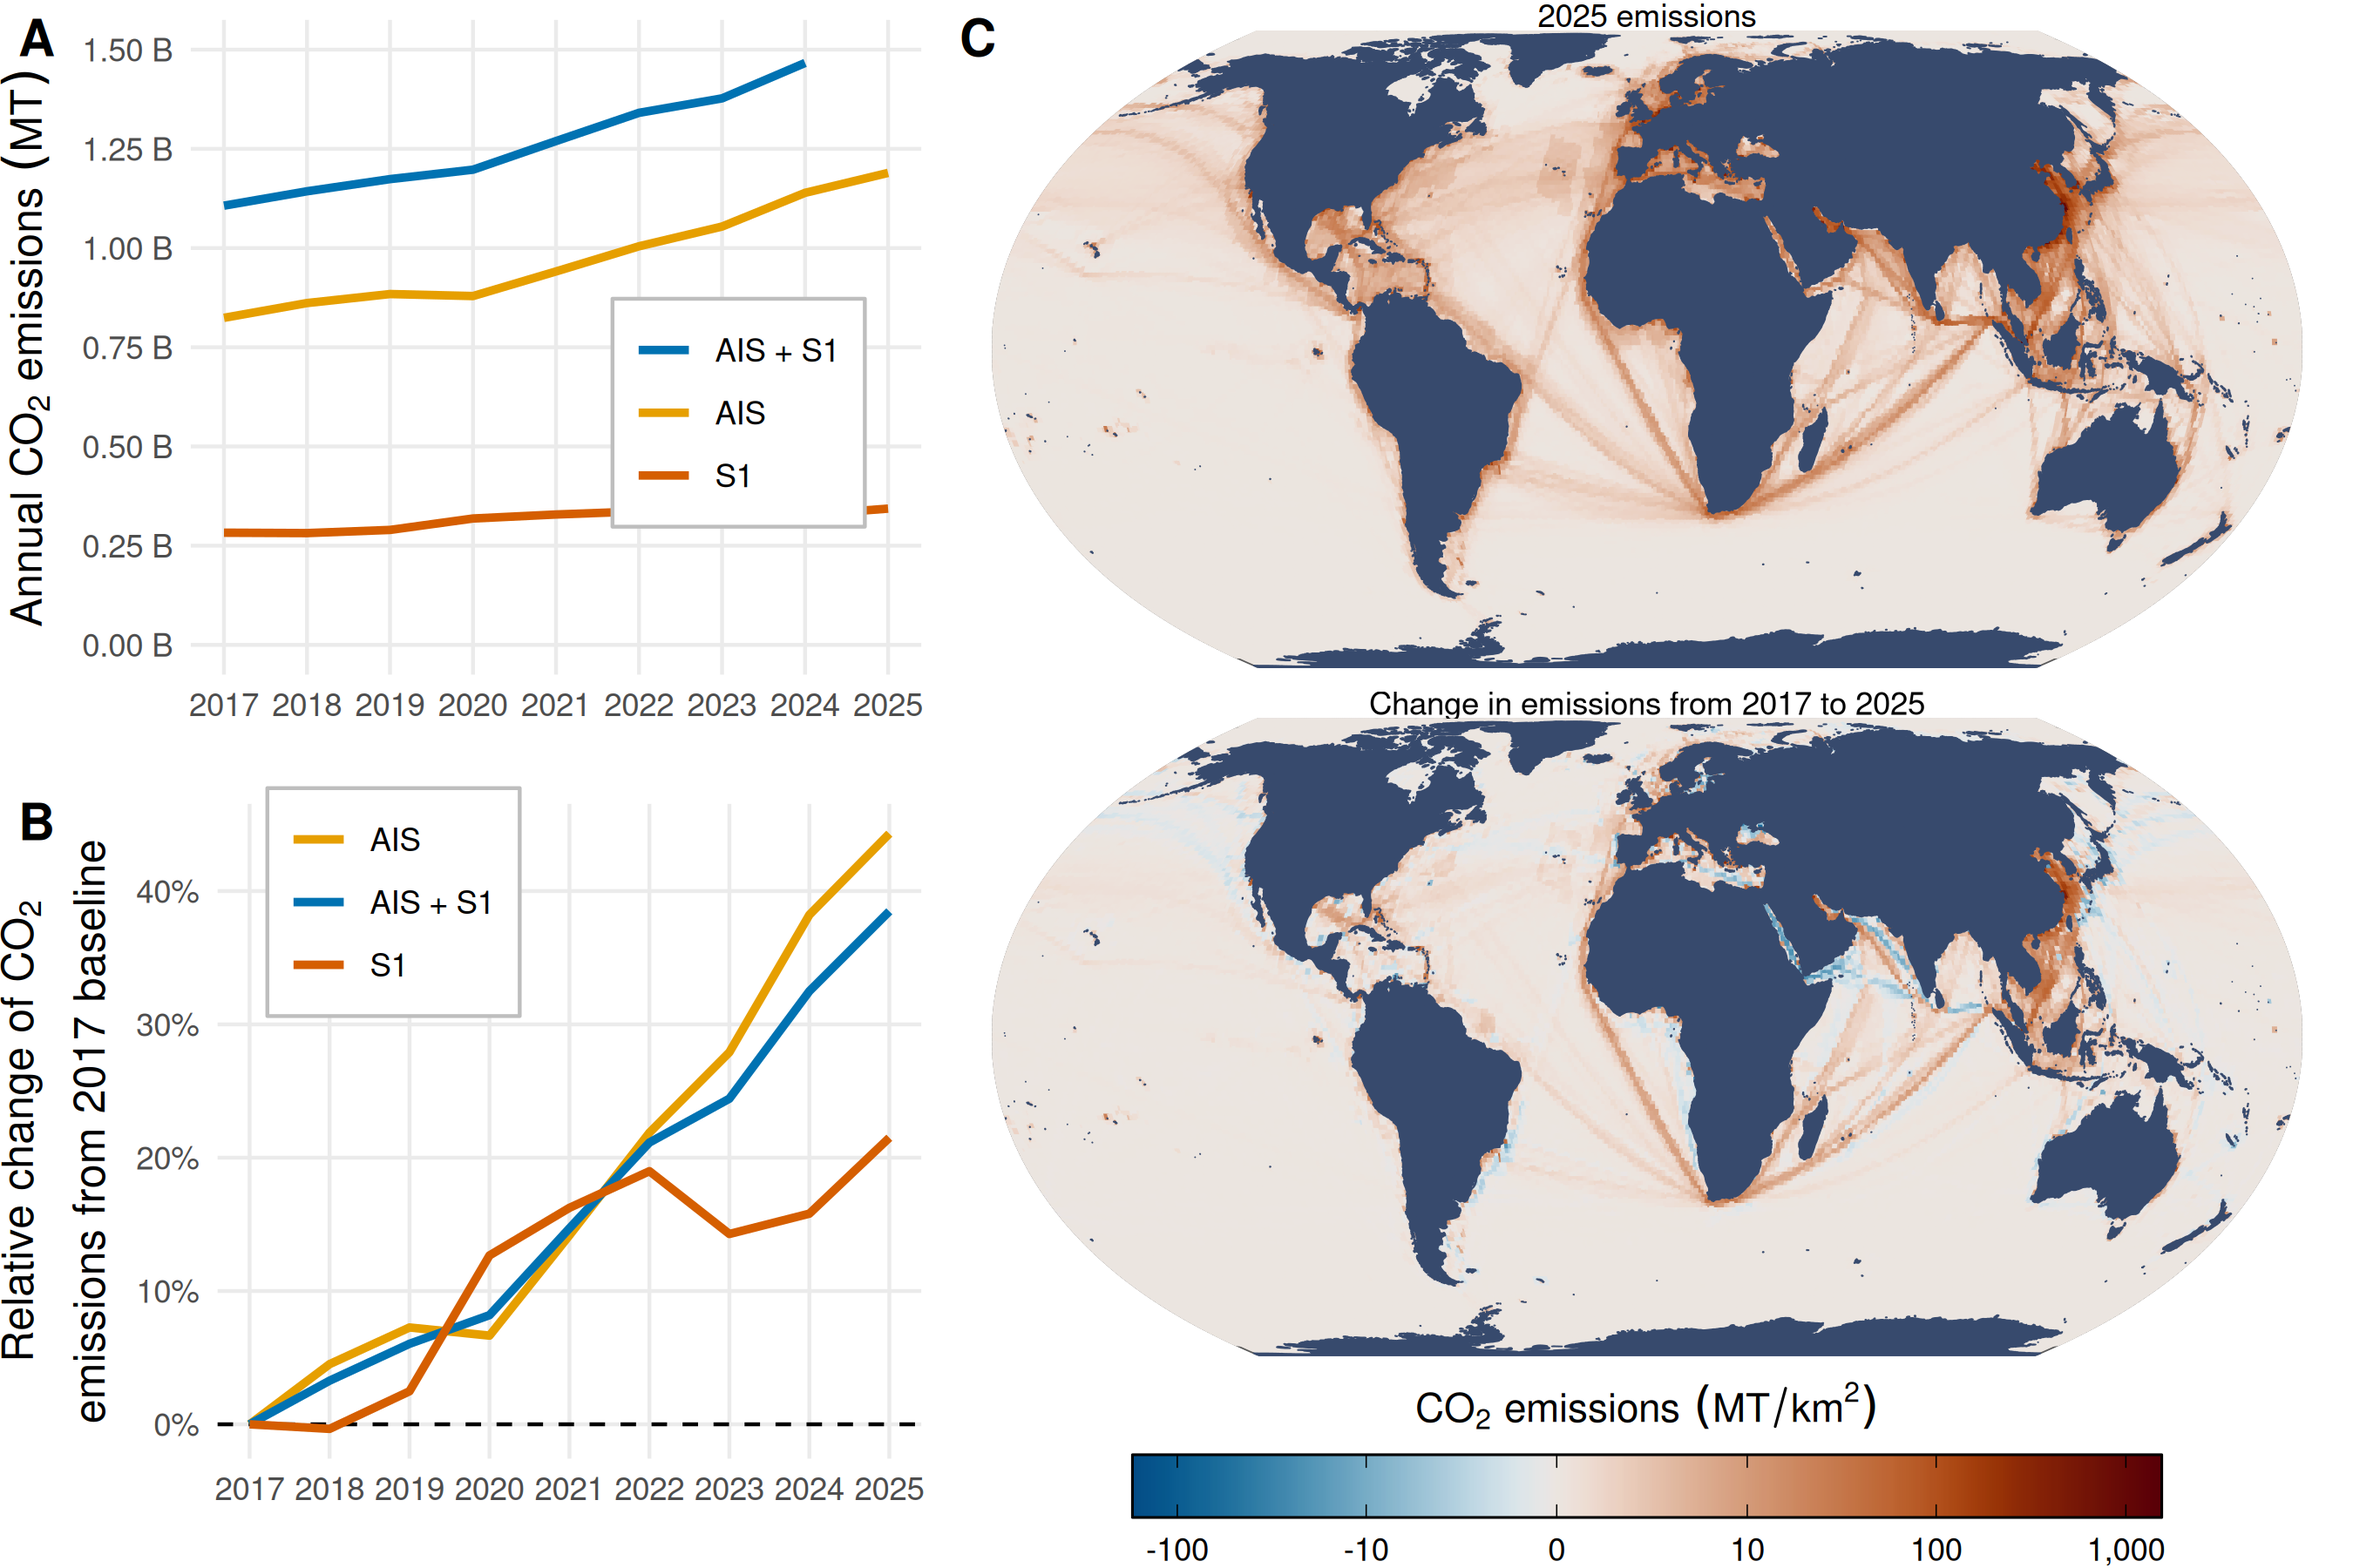
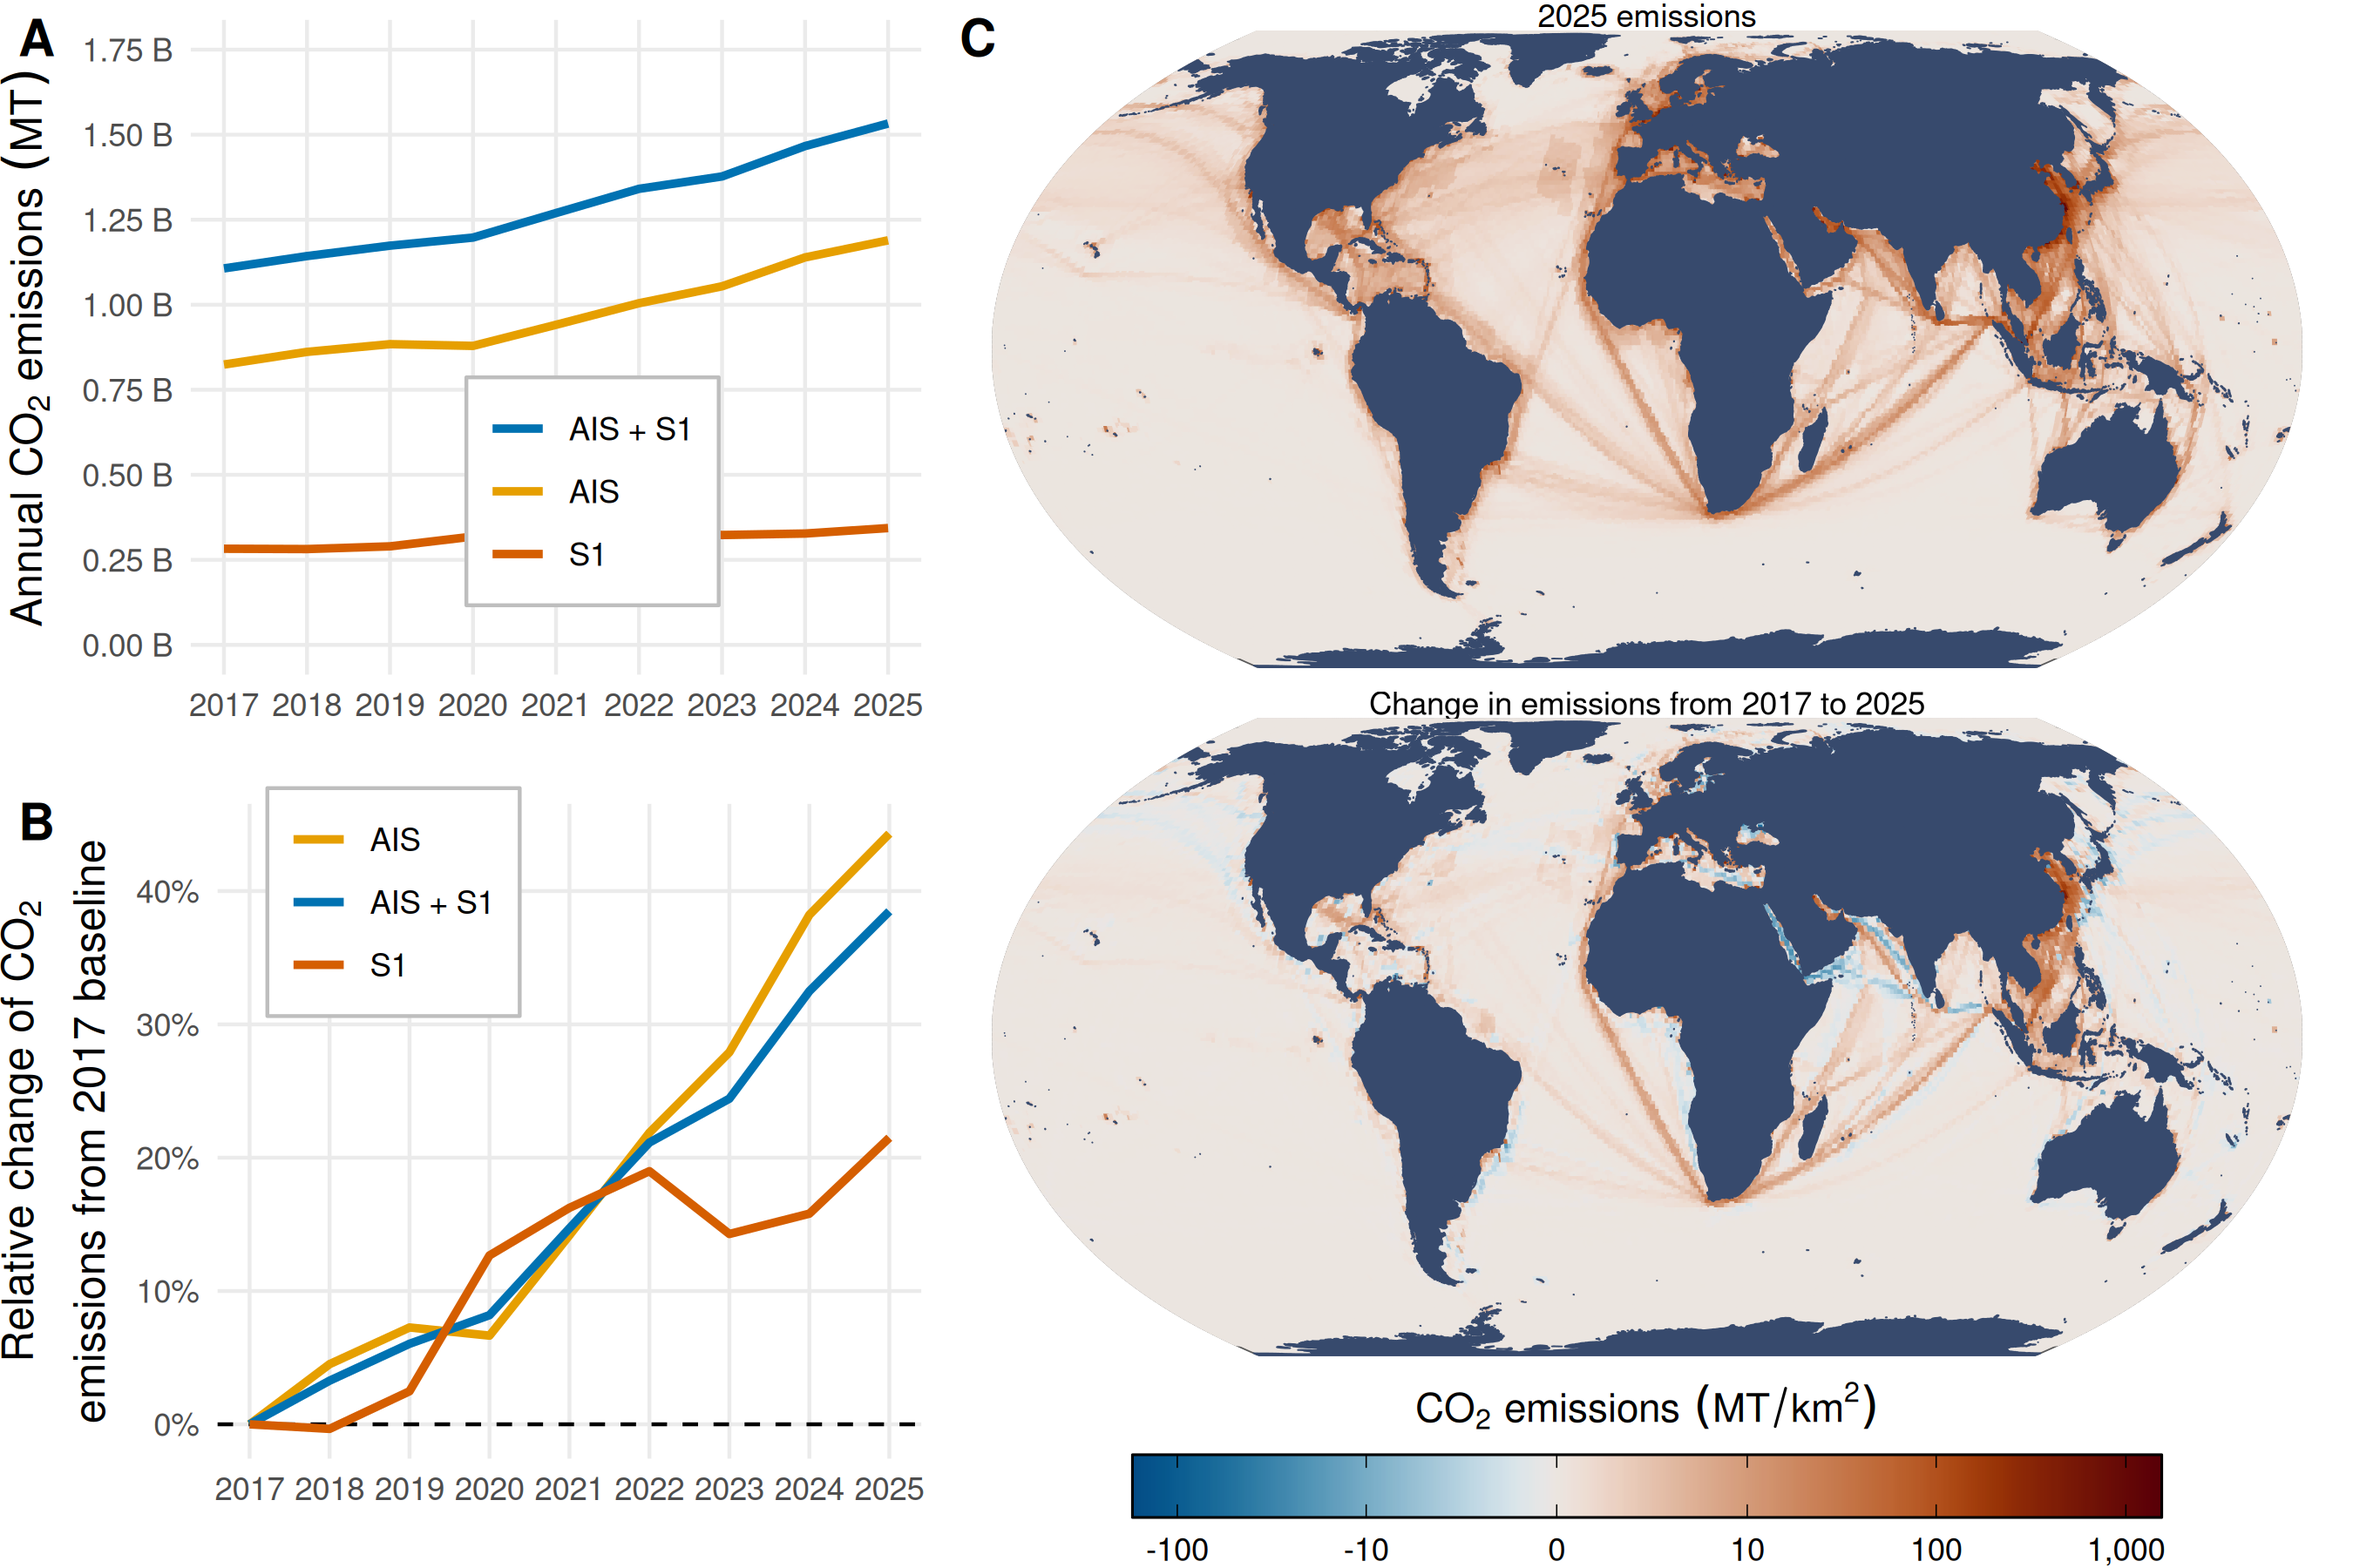
Fix stale cached figures and LaTeX p-value escaping
Disable knitr chunk caching, which was serving stale plots (clipped
Figure 1) because it doesn't track cross-chunk dependencies. Let label
repel move freely in x so ocean emissions labels sit right of line ends.
Wrap "<0.001" p-values in math mode with escape = FALSE so they render
correctly instead of as inverted exclamation marks. Regenerate affected
figures and tables.

diff --git a/tables/lm_other_gases_tidy_fit_stats.tex b/tables/lm_other_gases_tidy_fit_stats.tex
@@ -7,85 +7,85 @@
 \hline
 Pollutant & Term & Estimate & SE & T-stat. & p-value\\
 \hline
-CH4 & CO2 : log(distance from shore + 1) & 1.25e-06 & 3.29e-09 & 379.9 & <0.001\\
+CH4 & CO2 : log(distance from shore + 1) & 1.25e-06 & 3.29e-09 & 379.9 & $<$0.001\\
 \hline
-CH4 & CO2 : pre-2020 : non-fishing & -1.21e-06 & 3.17e-08 & -38.0 & <0.001\\
+CH4 & CO2 : pre-2020 : non-fishing & -1.21e-06 & 3.17e-08 & -38.0 & $<$0.001\\
 \hline
-CH4 & CO2 : post-2020 : non-fishing & -1.92e-06 & 3.14e-08 & -61.3 & <0.001\\
+CH4 & CO2 : post-2020 : non-fishing & -1.92e-06 & 3.14e-08 & -61.3 & $<$0.001\\
 \hline
-CH4 & CO2 : pre-2020 : fishing & 3.69e-06 & 8.42e-08 & 43.9 & <0.001\\
+CH4 & CO2 : pre-2020 : fishing & 3.69e-06 & 8.42e-08 & 43.9 & $<$0.001\\
 \hline
-CH4 & CO2 : post-2020 : fishing & 3.73e-06 & 4.52e-08 & 82.6 & <0.001\\
+CH4 & CO2 : post-2020 : fishing & 3.73e-06 & 4.52e-08 & 82.6 & $<$0.001\\
 \hline
-N2O & CO2 : log(distance from shore + 1) & 7.13e-07 & 2.32e-09 & 308.0 & <0.001\\
+N2O & CO2 : log(distance from shore + 1) & 7.13e-07 & 2.32e-09 & 308.0 & $<$0.001\\
 \hline
-N2O & CO2 : pre-2020 : non-fishing & 4.00e-05 & 2.23e-08 & 1869.4 & <0.001\\
+N2O & CO2 : pre-2020 : non-fishing & 4.00e-05 & 2.23e-08 & 1869.4 & $<$0.001\\
 \hline
-N2O & CO2 : post-2020 : non-fishing & 4.00e-05 & 2.21e-08 & 1865.7 & <0.001\\
+N2O & CO2 : post-2020 : non-fishing & 4.00e-05 & 2.21e-08 & 1865.7 & $<$0.001\\
 \hline
-N2O & CO2 : pre-2020 : fishing & 4.00e-05 & 5.92e-08 & 727.0 & <0.001\\
+N2O & CO2 : pre-2020 : fishing & 4.00e-05 & 5.92e-08 & 727.0 & $<$0.001\\
 \hline
-N2O & CO2 : post-2020 : fishing & 4.00e-05 & 3.18e-08 & 1379.9 & <0.001\\
+N2O & CO2 : post-2020 : fishing & 4.00e-05 & 3.18e-08 & 1379.9 & $<$0.001\\
 \hline
-CO & CO2 : log(distance from shore + 1) & 6.00e-05 & 1.57e-07 & 382.3 & <0.001\\
+CO & CO2 : log(distance from shore + 1) & 6.00e-05 & 1.57e-07 & 382.3 & $<$0.001\\
 \hline
-CO & CO2 : pre-2020 : non-fishing & 3.00e-05 & 1.51e-06 & 19.2 & <0.001\\
+CO & CO2 : pre-2020 : non-fishing & 3.00e-05 & 1.51e-06 & 19.2 & $<$0.001\\
 \hline
-CO & CO2 : post-2020 : non-fishing & -5.49e-06 & 1.50e-06 & -3.7 & <0.001\\
+CO & CO2 : post-2020 : non-fishing & -5.49e-06 & 1.50e-06 & -3.7 & $<$0.001\\
 \hline
-CO & CO2 : pre-2020 : fishing & 2.70e-04 & 4.02e-06 & 67.9 & <0.001\\
+CO & CO2 : pre-2020 : fishing & 2.70e-04 & 4.02e-06 & 67.9 & $<$0.001\\
 \hline
-CO & CO2 : post-2020 : fishing & 2.80e-04 & 2.16e-06 & 128.1 & <0.001\\
+CO & CO2 : post-2020 : fishing & 2.80e-04 & 2.16e-06 & 128.1 & $<$0.001\\
 \hline
-NOX & CO2 : log(distance from shore + 1) & 2.02e-03 & 4.33e-06 & 466.7 & <0.001\\
+NOX & CO2 : log(distance from shore + 1) & 2.02e-03 & 4.33e-06 & 466.7 & $<$0.001\\
 \hline
-NOX & CO2 : pre-2020 : non-fishing & -7.34e-03 & 4.00e-05 & -176.3 & <0.001\\
+NOX & CO2 : pre-2020 : non-fishing & -7.34e-03 & 4.00e-05 & -176.3 & $<$0.001\\
 \hline
-NOX & CO2 : post-2020 : non-fishing & -8.45e-03 & 4.00e-05 & -205.2 & <0.001\\
+NOX & CO2 : post-2020 : non-fishing & -8.45e-03 & 4.00e-05 & -205.2 & $<$0.001\\
 \hline
-NOX & CO2 : pre-2020 : fishing & -9.70e-04 & 1.10e-04 & -8.8 & <0.001\\
+NOX & CO2 : pre-2020 : fishing & -9.70e-04 & 1.10e-04 & -8.8 & $<$0.001\\
 \hline
-NOX & CO2 : post-2020 : fishing & -2.14e-03 & 6.00e-05 & -36.1 & <0.001\\
+NOX & CO2 : post-2020 : fishing & -2.14e-03 & 6.00e-05 & -36.1 & $<$0.001\\
 \hline
-SOX & CO2 : log(distance from shore + 1) & -1.00e-05 & 7.15e-08 & -173.1 & <0.001\\
+SOX & CO2 : log(distance from shore + 1) & -1.00e-05 & 7.15e-08 & -173.1 & $<$0.001\\
 \hline
-SOX & CO2 : pre-2020 : non-fishing & 6.30e-03 & 6.88e-07 & 9164.2 & <0.001\\
+SOX & CO2 : pre-2020 : non-fishing & 6.30e-03 & 6.88e-07 & 9164.2 & $<$0.001\\
 \hline
-SOX & CO2 : post-2020 : non-fishing & 1.66e-03 & 6.81e-07 & 2441.1 & <0.001\\
+SOX & CO2 : post-2020 : non-fishing & 1.66e-03 & 6.81e-07 & 2441.1 & $<$0.001\\
 \hline
-SOX & CO2 : pre-2020 : fishing & 6.37e-03 & 1.83e-06 & 3486.1 & <0.001\\
+SOX & CO2 : pre-2020 : fishing & 6.37e-03 & 1.83e-06 & 3486.1 & $<$0.001\\
 \hline
-SOX & CO2 : post-2020 : fishing & 1.67e-03 & 9.81e-07 & 1705.6 & <0.001\\
+SOX & CO2 : post-2020 : fishing & 1.67e-03 & 9.81e-07 & 1705.6 & $<$0.001\\
 \hline
-PM2.5 & CO2 : log(distance from shore + 1) & 4.00e-05 & 9.11e-08 & 401.0 & <0.001\\
+PM2.5 & CO2 : log(distance from shore + 1) & 4.00e-05 & 9.11e-08 & 401.0 & $<$0.001\\
 \hline
-PM2.5 & CO2 : pre-2020 : non-fishing & 4.10e-04 & 8.76e-07 & 472.5 & <0.001\\
+PM2.5 & CO2 : pre-2020 : non-fishing & 4.10e-04 & 8.76e-07 & 472.5 & $<$0.001\\
 \hline
-PM2.5 & CO2 : post-2020 : non-fishing & 5.00e-05 & 8.67e-07 & 58.1 & <0.001\\
+PM2.5 & CO2 : post-2020 : non-fishing & 5.00e-05 & 8.67e-07 & 58.1 & $<$0.001\\
 \hline
-PM2.5 & CO2 : pre-2020 : fishing & 5.30e-04 & 2.33e-06 & 228.9 & <0.001\\
+PM2.5 & CO2 : pre-2020 : fishing & 5.30e-04 & 2.33e-06 & 228.9 & $<$0.001\\
 \hline
-PM2.5 & CO2 : post-2020 : fishing & 2.10e-04 & 1.25e-06 & 168.4 & <0.001\\
+PM2.5 & CO2 : post-2020 : fishing & 2.10e-04 & 1.25e-06 & 168.4 & $<$0.001\\
 \hline
-PM10 & CO2 : log(distance from shore + 1) & 4.00e-05 & 9.90e-08 & 401.0 & <0.001\\
+PM10 & CO2 : log(distance from shore + 1) & 4.00e-05 & 9.90e-08 & 401.0 & $<$0.001\\
 \hline
-PM10 & CO2 : pre-2020 : non-fishing & 4.50e-04 & 9.52e-07 & 472.5 & <0.001\\
+PM10 & CO2 : pre-2020 : non-fishing & 4.50e-04 & 9.52e-07 & 472.5 & $<$0.001\\
 \hline
-PM10 & CO2 : post-2020 : non-fishing & 5.00e-05 & 9.43e-07 & 58.1 & <0.001\\
+PM10 & CO2 : post-2020 : non-fishing & 5.00e-05 & 9.43e-07 & 58.1 & $<$0.001\\
 \hline
-PM10 & CO2 : pre-2020 : fishing & 5.80e-04 & 2.53e-06 & 228.9 & <0.001\\
+PM10 & CO2 : pre-2020 : fishing & 5.80e-04 & 2.53e-06 & 228.9 & $<$0.001\\
 \hline
-PM10 & CO2 : post-2020 : fishing & 2.30e-04 & 1.36e-06 & 168.4 & <0.001\\
+PM10 & CO2 : post-2020 : fishing & 2.30e-04 & 1.36e-06 & 168.4 & $<$0.001\\
 \hline
-VOCs & CO2 : log(distance from shore + 1) & 1.00e-04 & 2.02e-07 & 495.7 & <0.001\\
+VOCs & CO2 : log(distance from shore + 1) & 1.00e-04 & 2.02e-07 & 495.7 & $<$0.001\\
 \hline
-VOCs & CO2 : pre-2020 : non-fishing & -3.90e-04 & 1.94e-06 & -203.0 & <0.001\\
+VOCs & CO2 : pre-2020 : non-fishing & -3.90e-04 & 1.94e-06 & -203.0 & $<$0.001\\
 \hline
-VOCs & CO2 : post-2020 : non-fishing & -4.40e-04 & 1.92e-06 & -228.0 & <0.001\\
+VOCs & CO2 : post-2020 : non-fishing & -4.40e-04 & 1.92e-06 & -228.0 & $<$0.001\\
 \hline
-VOCs & CO2 : pre-2020 : fishing & -2.00e-04 & 5.15e-06 & -39.0 & <0.001\\
+VOCs & CO2 : pre-2020 : fishing & -2.00e-04 & 5.15e-06 & -39.0 & $<$0.001\\
 \hline
-VOCs & CO2 : post-2020 : fishing & -2.10e-04 & 2.77e-06 & -75.7 & <0.001\\
+VOCs & CO2 : post-2020 : fishing & -2.10e-04 & 2.77e-06 & -75.7 & $<$0.001\\
 \hline
 \end{tabular}
 \end{table}

diff --git a/tables/data_sources.tex b/tables/data_sources.tex
@@ -34,6 +34,16 @@ Proportion of messages, satellite AIS receivers & AIS reception quality & Yes & 
 Mean wind speed & Weather features & Yes & Yes & Yes & m/s & Numeric & Yes & Yes & ERA5 & \cite{era5cds2023}\\
 Mean primary wave height & Weather features & Yes & Yes & Yes & m & Numeric & Yes & Yes & ERA5 & \cite{era5cds2023}\\
 Mean primary wave period & Weather features & Yes & Yes & Yes & s & Numeric & Yes & Yes & ERA5 & \cite{era5cds2023}\\
+Total pixel area imaged by S1 across all time & S1 detection features & Yes & Yes & No & km2 & Numeric & Yes & No & GFW & \cite{paolo2024satellite}\\
+Pixel water fraction & Geographic features & No & No & Yes & - & Numeric & Yes & No & GFW & \cite{paolo2024satellite}\\
+\addlinespace
+Unique AIS-broadcasting vessels in pixel & AIS reception quality & Yes & Yes & No & - & Numeric & Yes & Yes & GFW & \cite{kroodsma2018tracking}\\
+Unique AIS-broadcasting vessels globally & AIS reception quality & Yes & Yes & No & - & Numeric & No & Yes & GFW & \cite{kroodsma2018tracking}\\
+Month of year & Temporal features & Yes & Yes & Yes & - & Factor & No & Yes & GFW & -\\
+Mean sea surface temperature & Weather features & No & Yes & No & K & Numeric & Yes & Yes & ERA5 & \cite{era5cds2023}\\
+Mean sea level pressure & Weather features & No & Yes & No & Pa & Numeric & Yes & Yes & ERA5 & \cite{era5cds2023}\\
+\addlinespace
+Total precipitation & Weather features & No & Yes & No & m & Numeric & Yes & Yes & ERA5 & \cite{era5cds2023}\\
 \bottomrule
 \end{tabular}
 \end{table}
